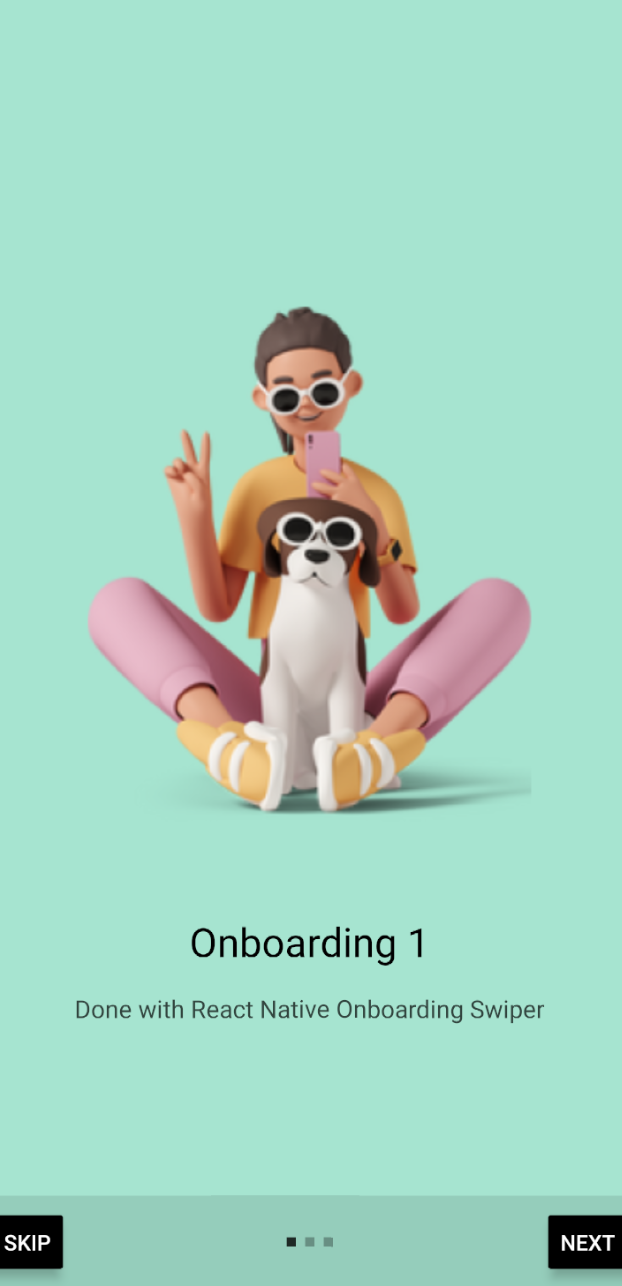
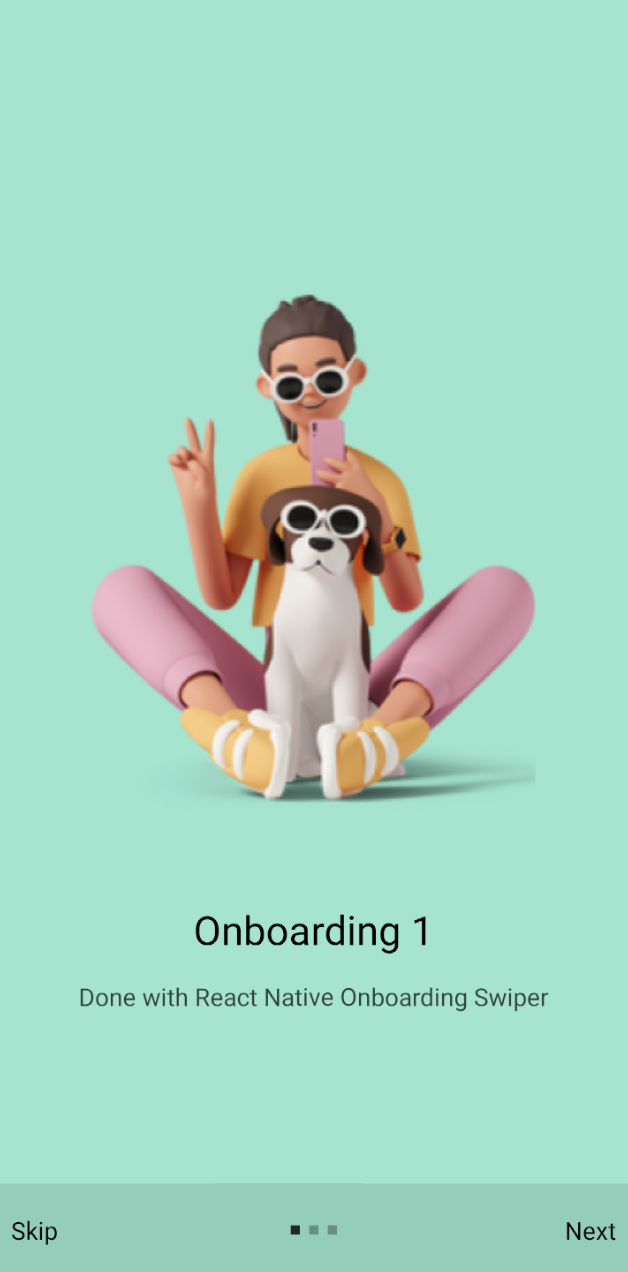
change description README.md

diff --git a/src/screen/OnboardingScreen.js b/src/screen/OnboardingScreen.js
@@ -4,19 +4,21 @@ import Onboarding from 'react-native-onboarding-swiper';
 import OnboardFlow from 'react-native-onboard';
 
 const Skip = ({...props}) => (
-    <Button 
-        title="Skip"
-        color="#000000"
+    <TouchableOpacity 
+        style={{ marginHorizontal:10 }}
         {...props}
-    />
+    >
+        <Text style={{ fontSize:16 }}>Skip</Text>
+    </TouchableOpacity>
 );
 
 const Next = ({...props}) => (
-    <Button 
-        title="Next"
-        color="#000000"
+    <TouchableOpacity 
+        style={{ marginHorizontal:10 }}
         {...props}
-    />
+    >
+        <Text style={{ fontSize:16 }}>Next</Text>
+    </TouchableOpacity>
 );
 
 const Done = ({...props}) => (
